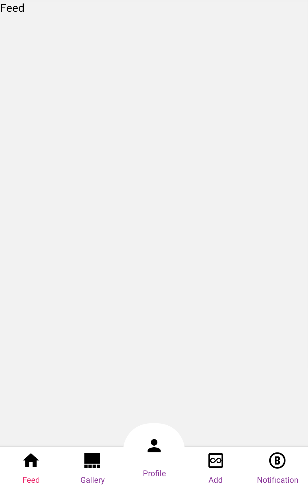
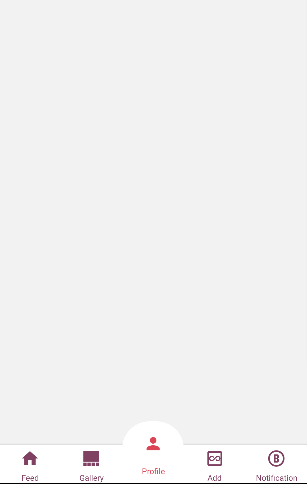
new preview file added

Changed region(s): [[0.0, 0.8988, 1.0, 1.0], [0.0, 0.0, 0.0879, 0.031]]

diff --git a/modules/react-native-navigation-tabs/index.js b/modules/react-native-navigation-tabs/index.js
@@ -5,15 +5,15 @@ import PropTypes from "prop-types";
 
 const Tab = createBottomTabNavigator();
 
-function MyTabs({ tabList = [], headerShown = false, tabBarShowLabel = true, tabBarLabelPosition = "below-icon", tabBarActiveTintColor = "#e91e63", tabBarInactiveTintColor = "#893498", tabBarActiveBackgroundColor = "", tabBarInactiveBackgroundColor = "", tabBarStyle = {} }) {
+function MyTabs({ tabList = [], headerShown = false, tabBarShowLabel = true, tabBarLabelPosition = "below-icon", tabBarActiveTintColor = "", tabBarInactiveTintColor = "", tabBarActiveBackgroundColor = "", tabBarInactiveBackgroundColor = "", tabBarStyle = {} }) {
   return (
     <Tab.Navigator
       screenOptions={{
         headerShown: headerShown,
         tabBarShowLabel: tabBarShowLabel,
         tabBarLabelPosition: tabBarLabelPosition,
-        tabBarActiveTintColor: tabBarActiveTintColor,
-        tabBarInactiveTintColor: tabBarInactiveTintColor,
+        tabBarActiveTintColor: tabBarActiveTintColor || "#dc4555",
+        tabBarInactiveTintColor: tabBarInactiveTintColor || "#7f4062",
         tabBarActiveBackgroundColor: tabBarActiveBackgroundColor,
         tabBarInactiveBackgroundColor: tabBarInactiveBackgroundColor,
         tabBarStyle: tabBarStyle
